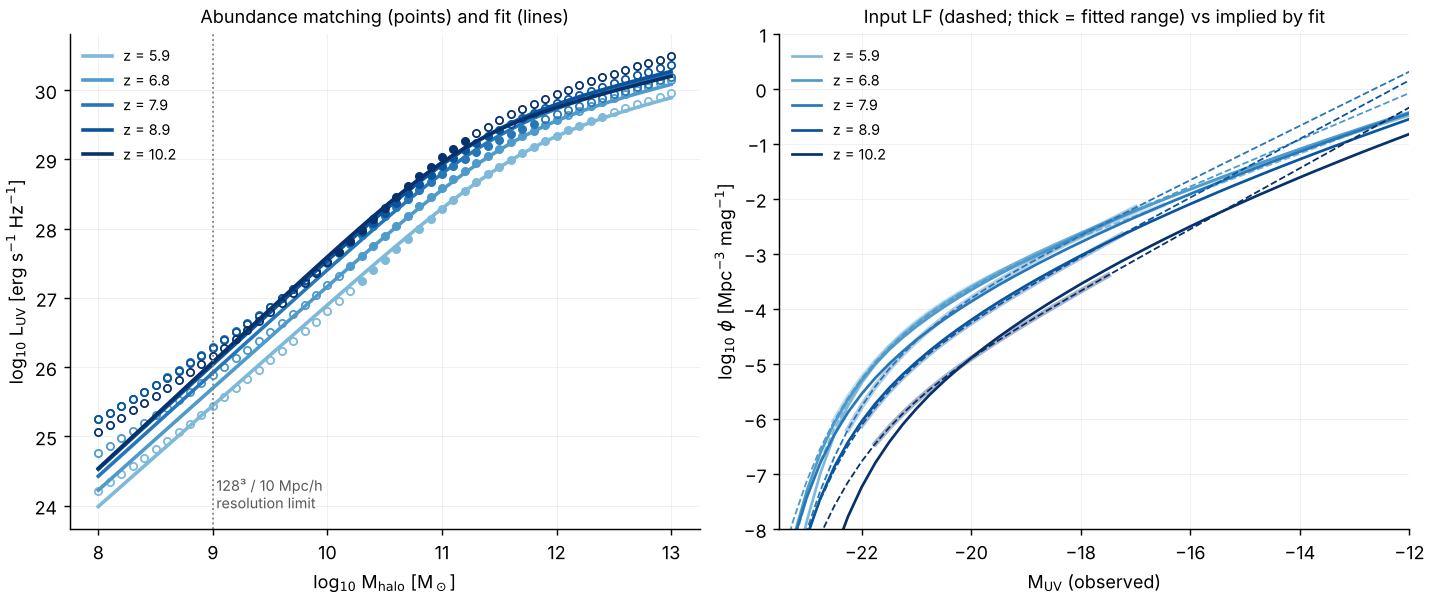
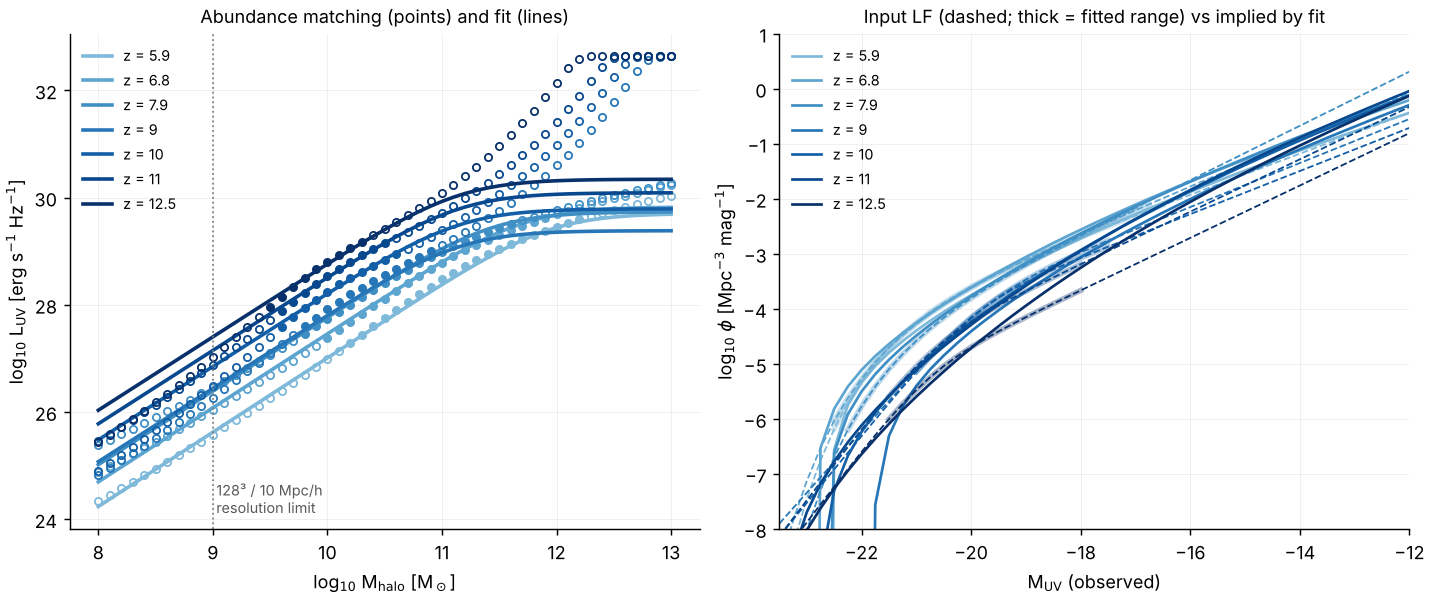
Abundance matching: Donnan+24 JWST LFs, Tinker HMF, extrapolated faint end
- data/uv_lf: Donnan et al. 2024 Table 3 DPL fits at z = 9-12.5 (read
  from the paper; z = 14.5 kept at weight 0); Bouwens+21 z = 8.9, 10.2
  superseded (weight 0); z ~ 6-8 Bouwens rows still unconfirmed.
- Shape from z <= 9 with the faint end extrapolated to M_UV = -12
  (AMPoint::in_shape); normalisation at z > 9.5 from the observed range
  only; Tinker HMF default; penalty keeps L(M) monotone.
- am_fit skips weight-0 rows; docs, PLAN and figure updated.

Claude-Session: https://claude.ai/code/session_01RRwLzFNguUKD6snBgENq8g

diff --git a/apps/am_fit.cpp b/apps/am_fit.cpp
@@ -5,19 +5,19 @@
 //   am_fit --lf data/uv_lf/lf_params.txt --out am_out [options]
 //
 // Options:
-//   --hmf st|tinker        analytic halo mass function (default st)
+//   --hmf st|tinker        analytic halo mass function (default tinker)
 //   --tinker-zmax Z        freeze the Tinker z-evolution above Z
 //   --dust 0|1             Meurer IRX-beta dust correction (default 0)
 //   --beta0 B --dbeta D    beta_UV(M) = B + D (M + 19.5)
-//   --extend-faint M       also fit matched points down to M_UV = M
+//   --extend-faint M       the shape fit also uses matched points down to
+//                          M_UV = M (default -12; 0 = observed range only)
 //   --logM-min X --logM-max X   halo mass range of the matched points
 //   --free l0,l1,a0,...    free parameters (default: all eight)
 //   --set am_b=0.3         starting/fixed value of a parameter (repeatable)
 //   --shape-zmax Z         entries with z <= Z fix the shape of L_UV(M, z)
 //                          (all parameters fitted); entries above Z only set
 //                          the normalisation (one offset per redshift, the
-//                          shape held at its z_hi form). Default 10.5: HST
-//                          shape, JWST normalisation.
+//                          shape held at its z_hi form). Default 9.5.
 //   --zlo Z --zhi Z        clamp of the shape's redshift dependence
 //                          (default: the range of the shape entries)
 //   --only-confirmed       ignore entries marked unconfirmed
@@ -62,11 +62,12 @@ int main(int argc, char** argv) {
   try {
     std::string lf_path, out_dir = "am_out";
     AMOptions opt;
+    opt.extend_faint_to = -12;
     LuvModel start;
     std::array<bool, LuvModel::kNpar> free{};
     free.fill(true);
     bool only_confirmed = false;
-    double zlo = -1, zhi = -1, shape_zmax = 10.5;
+    double zlo = -1, zhi = -1, shape_zmax = 9.5;
     for (int i = 1; i < argc; ++i) {
       const std::string a = argv[i];
       auto next = [&]() -> std::string {
@@ -118,8 +119,9 @@ int main(int argc, char** argv) {
     std::vector<LFEntry> lf;
     int n_unconf = 0;
     for (const auto& e : read_lf_table(lf_path)) {
-      if (!e.confirmed) ++n_unconf;
+      if (!e.confirmed && e.weight > 0) ++n_unconf;
       if (only_confirmed && !e.confirmed) continue;
+      if (!(e.weight > 0)) continue;  // kept in the table for reference only
       lf.push_back(e);
     }
     if (lf.empty()) throw std::runtime_error("no LF entries to fit");
@@ -133,7 +135,7 @@ int main(int argc, char** argv) {
     for (const auto& e : lf) {
       const auto p = abundance_match(e, opt);
       pts.insert(pts.end(), p.begin(), p.end());
-      if (e.z <= shape_zmax) {
+      if (e.z <= shape_zmax && e.weight > 0) {
         zmin = std::min(zmin, e.z);
         zmax = std::max(zmax, e.z);
       }
@@ -148,12 +150,12 @@ int main(int argc, char** argv) {
     std::filesystem::create_directories(out_dir);
     {
       std::ofstream o(out_dir + "/am_points.txt");
-      o << "# z logM[Msun] n_halo[Mpc^-3] M_obs M_int logL_AM logL_fit in_range\n";
+      o << "# z logM[Msun] n_halo[Mpc^-3] M_obs M_int logL_AM logL_fit in_range in_shape\n";
       for (const auto& p : pts) {
         char buf[256];
-        std::snprintf(buf, sizeof buf, "%.3f %.3f %.6e %.4f %.4f %.5f %.5f %d\n", p.z, p.logM,
-                      p.n_halo, p.M_obs, p.M_int, p.logL, fr.model.log_luv(p.logM, p.z),
-                      p.in_range ? 1 : 0);
+        std::snprintf(buf, sizeof buf, "%.3f %.3f %.6e %.4f %.4f %.5f %.5f %d %d\n", p.z,
+                      p.logM, p.n_halo, p.M_obs, p.M_int, p.logL, fr.model.log_luv(p.logM, p.z),
+                      p.in_range ? 1 : 0, p.in_shape ? 1 : 0);
         o << buf;
       }
     }

diff --git a/include/radray/abundance_matching.hpp b/include/radray/abundance_matching.hpp
@@ -75,14 +75,16 @@ struct DustModel {
 };
 
 struct AMOptions {
-  MassFunction::Kind hmf = MassFunction::Kind::ShethTormen;
+  MassFunction::Kind hmf = MassFunction::Kind::Tinker08;  // user choice
   MassFunctionCosmology cosmo;   // simulation cosmology (cosmo_parameters)
   double tinker_zmax_evol = 1e30;
   DustModel dust;
   // Halo masses (Msun, not Msun/h) of the matched points
   double logM_min = 8.0, logM_max = 13.0, dlogM = 0.1;
-  // Use points down to this magnitude even if fainter than the entry's
-  // M_faint (extrapolating the faint-end slope); 0 = only the observed range.
+  // The shape fit also uses matched points down to this magnitude, beyond
+  // the entry's M_faint (the LF's faint end extrapolated to the halos the
+  // simulation resolves, user decision); 0 = only the observed range. The
+  // high-z normalisation always uses the observed range only.
   double extend_faint_to = 0;
 };
 
@@ -94,7 +96,8 @@ struct AMPoint {
   double M_int = 0;   // intrinsic (dust-corrected) magnitude
   double logL = 0;    // log10 intrinsic L_UV, erg/s/Hz
   double weight = 1;
-  bool in_range = false;  // inside [M_bright, M_faint or extend_faint_to]
+  bool in_range = false;  // inside the observed [M_bright, M_faint]
+  bool in_shape = false;  // inside [M_bright, max(M_faint, extend_faint_to)]
 };
 
 // Cumulative halo number density above M (Msun), Mpc^-3, at redshift z
@@ -149,7 +152,8 @@ struct FitResult {
 };
 
 // Weighted least squares in log L of the shape (log_luv_shape) over the
-// in-range points with z <= start.z_hi (Nelder-Mead).
+// in_shape points with z <= start.z_hi (Nelder-Mead), with a penalty that
+// keeps L(M) increasing (b >= 0, a(z) >= 0).
 // free[i] = false keeps p[i] at its starting value.
 FitResult fit_luv_model(const std::vector<AMPoint>& pts, const LuvModel& start,
                         const std::array<bool, LuvModel::kNpar>& free);

diff --git a/src/abundance_matching.cpp b/src/abundance_matching.cpp
@@ -174,7 +174,8 @@ std::vector<AMPoint> abundance_match(const LFEntry& e, const AMOptions& opt) {
     p.M_int = p.M_obs - opt.dust.A_uv(p.M_obs);
     p.logL = std::log10(luv_from_muv(p.M_int));
     p.weight = e.weight;
-    p.in_range = p.M_obs >= e.M_bright && p.M_obs <= faint;
+    p.in_range = p.M_obs >= e.M_bright && p.M_obs <= e.M_faint;
+    p.in_shape = p.M_obs >= e.M_bright && p.M_obs <= faint;
     pts.push_back(p);
   }
   return pts;
@@ -245,7 +246,7 @@ FitResult fit_luv_model(const std::vector<AMPoint>& pts, const LuvModel& start,
                         const std::array<bool, LuvModel::kNpar>& free) {
   std::vector<const AMPoint*> use;
   for (const auto& p : pts)
-    if (p.in_range && p.weight > 0 && p.z <= start.z_hi) use.push_back(&p);
+    if (p.in_shape && p.weight > 0 && p.z <= start.z_hi) use.push_back(&p);
   FitResult r;
   r.model = start;
   r.npoints = static_cast<int>(use.size());
@@ -265,7 +266,14 @@ FitResult fit_luv_model(const std::vector<AMPoint>& pts, const LuvModel& start,
       const double d = m.log_luv_shape(p->logM, p->z) - p->logL;
       s += p->weight * d * d;
     }
-    return s / wsum;
+    // L(M) must increase with M at every redshift (abundance matching is
+    // monotone): penalise b < 0 and a(z) < 0 over the clamped z range.
+    double pen = std::min(0.0, m.p[7]) * std::min(0.0, m.p[7]);
+    for (double z : {m.z_lo, m.z_hi}) {
+      const double a = m.p[3] + m.p[4] * (std::clamp(z, m.z_lo, m.z_hi) - m.z0);
+      pen += std::min(0.0, a) * std::min(0.0, a);
+    }
+    return s / wsum + 1e3 * pen;
   };
 
   std::vector<double> x0(nd);

diff --git a/tests/test_abundance_matching.cpp b/tests/test_abundance_matching.cpp
@@ -76,8 +76,7 @@ void test_abundance_match() {
   for (const auto& p : pts) {
     // matched abundance; the cumulative tables are piecewise linear in log
     CHECK_CLOSE(e.n_brighter(p.M_obs), p.n_halo, 2e-3);
-    CHECK_CLOSE(halo_n_above(mf, opt.cosmo.hubble0, std::pow(10.0, p.logM), e.z,
-                             MassFunction::Kind::ShethTormen),
+    CHECK_CLOSE(halo_n_above(mf, opt.cosmo.hubble0, std::pow(10.0, p.logM), e.z, opt.hmf),
                 p.n_halo, 1e-2);
     CHECK(p.logL > prevL);  // monotone
     prevL = p.logL;
@@ -128,7 +127,7 @@ void test_fit_recovery() {
       p.z = z;
       p.logM = lm;
       p.logL = truth.log_luv(lm, z);
-      p.in_range = true;
+      p.in_shape = true;
       pts.push_back(p);
     }
   }

diff --git a/docs/abundance_matching.md b/docs/abundance_matching.md
@@ -1,10 +1,10 @@
 # Abundance-matched UV sources
 
-*Status (2026-10-08): **draft**. The code is in place and tested, but the
-luminosity-function parameters are not yet confirmed against the papers, and
-the z > 10 (JWST) entries are still missing. Do not use the fitted
-parameters for science until `data/uv_lf/lf_params.txt` has only
-`confirmed` rows.*
+*Status (2026-10-08): **draft**.*
+* The code is in place and tested.
+* The z ≥ 9 LFs (Donnan et al. 2024) are read from the paper.
+* The z ≈ 6–8 rows (Bouwens et al. 2021) are still unconfirmed, and may be
+  replaced by JWST-era LFs from papers the user will supply.
 
 This is a third source model, `sfr_model = abundance`, beside the
 reconstructed Trac & Cen model (`global`, the default) and `dynamical`
@@ -18,8 +18,8 @@ existing models are bit-identical to before.
    data constrain and a weight. φ* is in the observers' Mpc⁻³ mag⁻¹ (h = 0.7).
 2. **Matching** (`abundance_match`, `include/radray/abundance_matching.hpp`):
    at each LF redshift, M_UV(M_halo) from n_halo(>M) = n_gal(<M_UV).
-   * n_halo comes from the analytic Sheth–Tormen (default) or Tinker et al.
-     2008 (Δ = 200m) mass function, in the simulation cosmology
+   * n_halo comes from the analytic Tinker et al. 2008 (Δ = 200m; default,
+     user choice) or Sheth–Tormen mass function, in the simulation cosmology
      (cosmo_parameters.f90: Ωm = 0.27, h = 0.7, σ8 = 0.8, n = 0.96), BBKS
      transfer function.
    * The small cosmology difference from the observers' (Ωm = 0.3, h = 0.7) is
@@ -29,8 +29,12 @@ existing models are bit-identical to before.
      IRX–β, A_UV = 4.43 + 1.99 β with a linear β(M_UV). It is off by default
      (§4).
    * L_ν = 4π(10 pc)² 10^(−0.4(M_AB + 48.60)), i.e. M_UV = 51.595 − 2.5 log L.
-3. **Smooth fit** (`fit_luv_model`, Nelder–Mead in log L over the matched
-   points inside each entry's fitted magnitude range):
+3. **Smooth fit** (`fit_luv_model`, Nelder–Mead in log L, with a penalty
+   that keeps L increasing in M):
+   * The shape uses the matched points from the entry's bright limit down to
+     `--extend-faint` (default M_UV = −12). This extrapolates the observed
+     faint end to the halos the simulation resolves (user decision).
+   * The model is:
 
    ```
    L_UV(M, z) = 2 L_p / ((M/M_p)^-a + (M/M_p)^-b),   x = clamp(z, z_lo, z_hi) - z0
@@ -38,8 +42,8 @@ existing models are bit-identical to before.
    ```
 
    M is in M☉ and L in erg/s/Hz.
-   * **The shape is fitted to the HST LFs only** (entries with
-     z ≤ `--shape-zmax`, default 10.5). z is clamped to their range
+   * **The shape is fitted to the z ≤ 9 LFs only** (entries with
+     z ≤ `--shape-zmax`, default 9.5). z is clamped to their range
      [z_lo, z_hi].
    * **Above z_hi only the normalisation changes**
      (`fit_highz_norm`): one offset in log L per JWST redshift. It is the
@@ -95,50 +99,60 @@ against the LF the fit implies.
 | `l_per_sfr` | 8e27 | L_UV per M☉/yr (metals only) |
 | `tvir_min`, `m_min` | 1e4 K, 0 | halos below do not emit (as for the other models) |
 
-## 3. Draft fit (HST rows only, unconfirmed)
+## 3. Draft fit
+
+The fit uses:
+* Bouwens+21 at z = 5.9, 6.8 and 7.9, unconfirmed;
+* Donnan+24 at z = 9 for the shape, and at z = 10, 11 and 12.5 for the
+  normalisation;
+* the Tinker mass function, with the faint end extended to −12.
 
 ![draft fit](figures/am_fit_draft_unconfirmed.png)
 
-With Sheth–Tormen and all eight parameters free:
-* the rms is 0.04 dex in log L;
-* the implied LFs match the inputs to within 0.1–0.17 dex over most of the
-  fitted range, and to within 0.35 dex at the steep bright end.
+* **Shape:** the rms is 0.09 dex in log L. The high-mass slope b runs into
+  its bound of 0, so L is flat above M_p ≈ 10^11.4–12 M☉. This only removes
+  galaxies brighter than M_UV ≈ −22, and a 10 Mpc/h box has no such
+  halos.
+* **High-z normalisation:** +0.41, +0.71 and +0.96 dex at z = 10, 11 and
+  12.5, relative to the z = 9 relation. This is the slow evolution of the
+  bright end that JWST finds. With Sheth–Tormen it is +0.38, +0.66 and
+  +0.88. Because the shape is fixed, the boost also applies to faint
+  halos. At z ≥ 10 they are about 0.4 dex brighter than the matched points
+  from Donnan's own faint-end slope would give (left panel).
+* **Resolution-limit halos** (10⁹ M☉, 20 particles at 128³ in 10 Mpc/h):
 
-The resolution limit of 128³ in 10 Mpc/h is 20 particles, i.e. 7.1×10⁸
-M☉/h = 1.0×10⁹ M☉. These halos map to **M_UV ≈ −12 to −14**, far fainter
-than the HST blank-field limit (M_UV ≈ −17). So most sources in the box lie
-on the extrapolated faint end. At logM = 9, the choices below shift M_UV by:
+  | z | M_UV, Tinker | M_UV, Sheth–Tormen |
+  |---|---|---|
+  | 6 | −12.6 | −12.2 |
+  | 8 | −14.4 | −13.9 |
+  | 10 | −15.5 | −14.9 |
+  | 12 | −16.7 | −16.0 |
 
-| choice | z = 6 | z = 8 | z = 10 |
-|---|---|---|---|
-| fit observed range only (default) | −12.1 | −13.2 | −13.6 |
-| `--extend-faint -13` (fit the extrapolated α down to −13) | −12.4 | −13.8 | −14.0 |
-| + Tinker instead of Sheth–Tormen | −12.7 | −14.3 | −14.7 |
-
-That is up to about 1 mag (0.4 dex in L). Much of a uniform offset is
-absorbed by the f_esc calibration. The redshift and mass dependence is not
-absorbed, so it shapes the timing and morphology of reionisation.
+  These are fainter than the blank-field data, so the faint-end slope of the
+  z ≤ 9 LFs, which fixes the shape at all redshifts, matters most.
+  Lensing-field LFs reach M_UV ≈ −13 to −15.
+* **Tinker vs Sheth–Tormen:** Tinker et al. calibrated their z-evolution
+  only to z ≈ 2.5. Extrapolated to z = 7, it gives 1.5–4.5× fewer halos than
+  Sheth–Tormen at 10⁹–10¹¹ M☉. The step-2 comparison with the simulated FoF
+  mass function will show which is closer. `--tinker-zmax` freezes the
+  evolution if needed.
 
 ## 4. Decisions
 
 **Decided (user, 2026-10-08):**
 * **Shape and normalisation.** The shape of L_UV(M) comes from the
-  lower-redshift (HST) LFs. At z > 10 only the normalisation is fitted, to
-  the luminous galaxies JWST observes.
+  lower-redshift LFs (z ≤ 9). At z > 9.5 only the normalisation is fitted,
+  to the luminous galaxies JWST observes.
+* **Faint end:** extrapolate it when matching (`--extend-faint -12`).
+* **Mass function:** Tinker.
 * **Dust:** no correction.
-* **ξ_ion:** a JWST-era value. The value chosen is log ξ_ion = 25.38 (§5).
+* **ξ_ion:** a JWST-era value, log ξ_ion = 25.38 (§5).
 * **Beyond the data:** L(M) is held fixed above the highest LF redshift.
+* **LFs:** prefer recent JWST LFs to Bouwens+21. At z ≥ 9 this is
+  Donnan+24 (paper supplied).
 
-**Still open:**
-1. **LF parameters:** confirm the rows of `data/uv_lf/lf_params.txt`, or
-   supply the papers (§5).
-2. **z > 10 data set:** which of Donnan+24, Finkelstein+24, McLeod+24,
-   Harikane+24 or Whitler+25, or a combination.
-3. **Faint end of the shape:** fit only the observed HST range (the
-   default), or include the extrapolated faint-end slope
-   (`--extend-faint`)?
-4. **Halo mass function** for the matching: ST, Tinker, or the measured
-   mass function of the step-2 run (not yet implemented).
+**Still open:** the z ≈ 6–8 LFs (JWST-era papers to come from the user;
+Bouwens+21 is unconfirmed until then).
 
 ## 5. Parameters used, with provenance
 
@@ -146,8 +160,31 @@ The cloud sessions cannot reach arXiv, ADS or the journals. "Snippet" means
 the number appeared in a quoted search-result excerpt of the paper; "memory"
 means recalled, not verified. **All need confirmation.**
 
-**UV LFs (`data/uv_lf/lf_params.txt`),** Bouwens et al. 2021, AJ 162, 47
-(arXiv:2102.07775), Schechter fits:
+**UV LFs (`data/uv_lf/lf_params.txt`).**
+
+Donnan et al. 2024, MNRAS 533, 3222 (arXiv:2403.03171v3), Table 3, double
+power law. **Confirmed**: read from the user-supplied PDF. * marks a
+parameter fixed in their fit.
+
+| z | φ* (10⁻⁵ Mpc⁻³ mag⁻¹) | M* | α | β | fitted M_UV range | use |
+|---|---|---|---|---|---|---|
+| 9 | 23.5 ± 39.2 | −19.70 ± 0.96 | −2.00 ± 0.47 | −3.81 ± 0.49 | −21.0 to −17.3 | shape |
+| 10 | 14.5 ± 16.4 | −19.98 ± 0.61 | −1.98 ± 0.40 | −4.05* | −21.0 to −17.3 | normalisation |
+| 11 | 3.27 ± 9.86 | −20.73 ± 1.61 | −2.19 ± 0.69 | −4.29 ± 1.30 | −21.5 to −18.0 | normalisation |
+| 12.5 | 0.99 ± 0.99 | −20.82 ± 0.71 | −2.19* | −4.29* | −21.5 to −18.0 | normalisation |
+| 14.5 | 0.18 ± 0.28 | −20.82* | −2.19* | −4.29* | one bin, about 1.3 galaxies | not used (weight 0) |
+
+Their evolving parametrisation (eqs. 3–6, used as a redshift prior for
+z ≥ 7) is:
+* M* = −20.95 + 0.11z;
+* φ* = 10^(−0.14z − 2.36);
+* α = −2.04×10⁻⁴ z − 2.1;
+* β = 0.138z − 5.13.
+
+It is not used.
+
+Bouwens et al. 2021, AJ 162, 47 (arXiv:2102.07775), Schechter fits. The
+z = 8.9 and 10.2 rows are kept at weight 0, superseded by Donnan+24:
 
 | ⟨z⟩ | M* | φ* (10⁻³ Mpc⁻³) | α | provenance |
 |---|---|---|---|---|
@@ -161,9 +198,7 @@ The Bouwens+21 evolving fit was partly seen in snippets and is not used:
 M* = −21.03 − 0.04(z−6), α = −1.94 − 0.11(z−6),
 φ* = 0.40×10⁻³ × 10^(−0.33(z−6) − 0.024(z−6)²).
 
-JWST z > 10: **none entered.** Candidates are listed in the data file. Seen
-in snippets: Donnan+24 fixes β = −4.05 at z = 10, and McLeod+24 fixes
-α = −2.35 at z ≈ 11.
+Other JWST LFs (not entered) are listed in the data file.
 
 **Other published constants (from memory, unconfirmed):**
 

diff --git a/docs/PLAN.md b/docs/PLAN.md
@@ -144,17 +144,17 @@ and adaptive calculations.
 ### Abundance-matched sources (decided 2026-10-08; docs/abundance_matching.md)
 
 * **Model:** a new `sfr_model = abundance`. The existing models stay.
-* **Shape:** the shape of L_UV(M_halo) is fitted to the lower-redshift
-  (HST) UV LFs.
-* **High z:** at z > 10 only the normalisation is fitted, to the luminous
-  galaxies JWST observes.
-* **Beyond the data:** L(M) is held fixed above the highest LF redshift,
-  since the halos disappear anyway.
+* **LFs:** use recent JWST LFs in preference to Bouwens+21. At z ≥ 9 that
+  is Donnan et al. 2024; the user will supply z ≈ 6–8 papers.
+* **Shape:** the shape of L_UV(M_halo) is fitted at z ≤ 9, with the faint
+  end extrapolated when matching (down to M_UV = −12).
+* **High z:** at z > 9.5 only the normalisation is fitted, to the luminous
+  galaxies observed.
+* **Beyond the data:** L(M) is held fixed above the highest LF redshift.
+* **Mass function:** Tinker et al. 2008.
 * **Dust:** no correction.
 * **ξ_ion:** a JWST-era value, log ξ_ion = 25.38, with a single f_esc
   calibrated to τ_es.
-* **Still open:** confirmation of the LF parameters, the choice of JWST
-  data set, the faint-end treatment, and the HMF used for the matching.
 
 ### Long-term decisions (2026-10-08; details in docs/ROADMAP.md)
 
